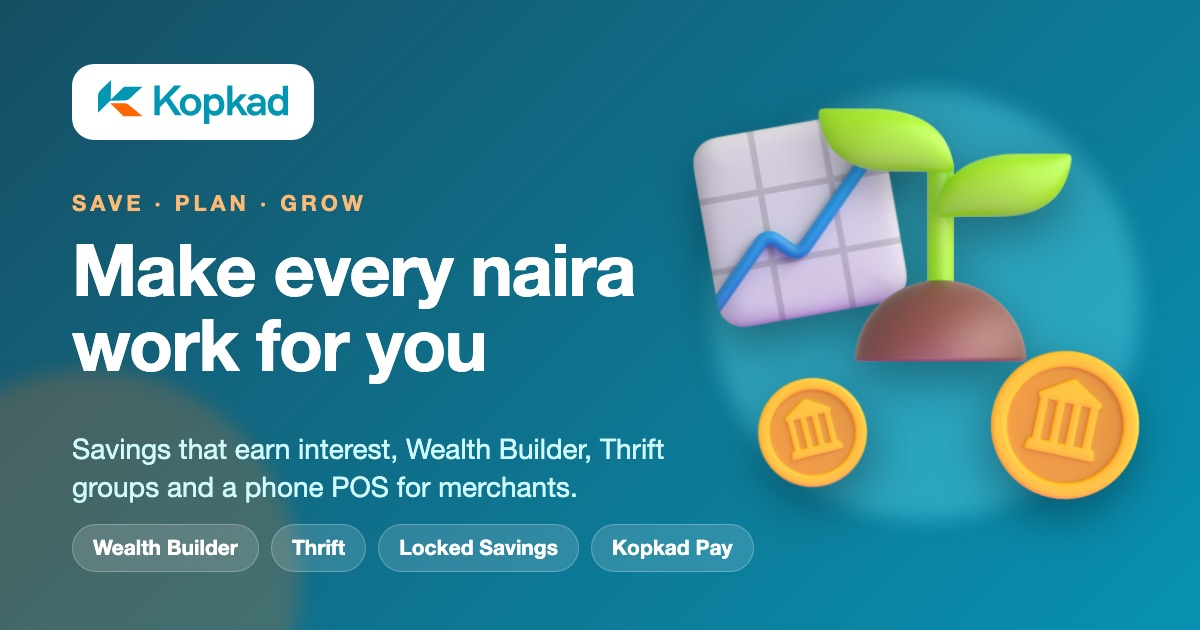
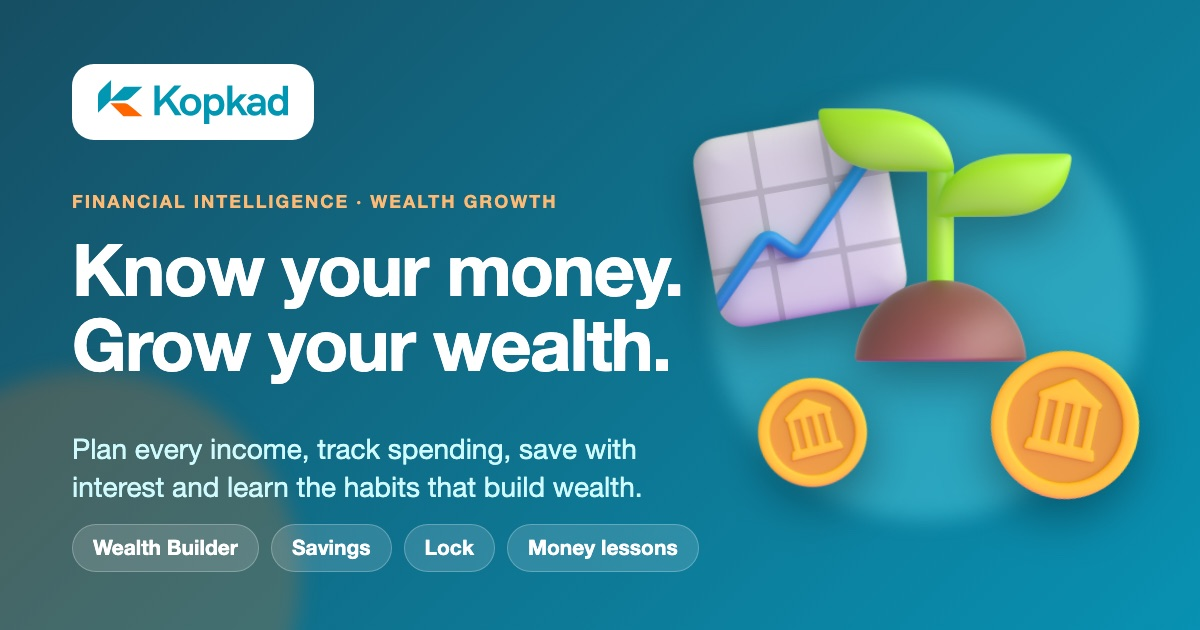
improve seo

Changed region(s): [[0.0617, 0.3921, 0.5858, 0.6032], [0.0617, 0.6937, 0.6475, 0.9349], [0.0617, 0.3016, 0.4625, 0.3317]]

diff --git a/src/landing/Landing.jsx b/src/landing/Landing.jsx
@@ -525,24 +525,30 @@ const FaqItem = ({ q, a }) => {
 const Landing = ({ onStartClick, onCoopClick, onMerchantClick }) => {
   /* ── DATA ─────────────────────────────────────────────────────────────────── */
 
+  // The wealth-building tools first, then the money-movement and business tools.
   const mainAppFeatures = [
-    { icon: ClipboardList, color: 'bg-cyan-700',   title: 'AJO Daily Card Marking',    desc: 'The core market savings workflow. Field agents register customers and mark their daily contributions in seconds, earning commission paid by Kopkad.' },
-    { icon: QrCode,           color: 'bg-orange-500', title: 'QR Physical Card System',    desc: 'Print QR savings cards for members. Scan with any smartphone to instantly open their account.' },
+    { icon: Sprout,        color: 'bg-cyan-700',   title: 'Wealth Builder',             desc: 'Split every income into Living, Savings and Give before you spend, keep to a daily budget, and climb from Seed to Harvest as your savings grow.' },
+    { icon: BookOpen,      color: 'bg-orange-500', title: 'Financial Awareness',        desc: 'Short money lessons, from paying yourself first to spotting Ponzi schemes, each paired with the tool that puts it into practice.' },
     { icon: TrendingUp,       color: 'bg-emerald-600', title: 'Interest on Your Savings',   desc: 'No commission to save. Your balance earns interest, accrued daily and credited monthly — up to 20% p.a. depending on how much and how long you save. Rate can change with notice; 10% withholding tax applies.' },
     { icon: Lock,             color: "bg-indigo-600", title: "Locked Savings",              desc: "Lock money for 3–12 months at a fixed rate of up to 20% p.a., set at creation. Add money any time (Flexible Lock) or lock a one-off sum (Fixed Lock)." },
-    { icon: Wallet,        color: 'bg-cyan-700',   title: 'Wallet & Account Number',    desc: 'Complete KYC to get your own permanent 10-digit account number. Top up from any bank app, withdraw to your bank any time.' },
-    { icon: Store,         color: 'bg-orange-500', title: 'Merchant POS',               desc: 'Turn your phone into a POS with Kopkad Pay: charge customers, send to any Kopkad user, or pay out to any bank.' },
-    { icon: MessageSquareText, color: 'bg-indigo-600', title: 'Pay Without Data',       desc: 'Pay a Kopkad merchant from your wallet by reading out a one-time SMS code. You don\'t need a smartphone, data or a card.' },
-    { icon: Sprout,        color: 'bg-cyan-700',   title: 'Wealth Builder',             desc: 'Split every income into Living, Savings and Give, track what you spend, and see your money statements and progress. Free money lessons show you how.' },
+    { icon: ListChecks,    color: 'bg-cyan-700',   title: 'Expense Tracking',           desc: 'Log income and spending in seconds, see needs vs wants, and get your own income statement, cash flow and balance sheet.' },
     { icon: Users,         color: 'bg-orange-500', title: 'Thrift (Ajo/Esusu) Groups',  desc: 'Join a field agent\'s thrift group with a link: fixed contributions, a rotating payout schedule, and every slot paid by card, transfer or wallet.' },
-    { icon: Zap,           color: 'bg-emerald-600',title: 'SMS & Email Notifications',  desc: 'Instant alerts when savings are marked, money lands in or leaves your wallet, or a payout is processed.' },
+    { icon: Wallet,        color: 'bg-emerald-600', title: 'Wallet & Account Number',    desc: 'Complete KYC to get your own permanent 10-digit account number. Top up from any bank app, withdraw to your bank any time.' },
+    { icon: Store,         color: 'bg-indigo-600', title: 'Merchant POS',               desc: 'Turn your phone into a POS with Kopkad Pay: charge customers, send to any Kopkad user, or pay out to any bank.' },
+    { icon: MessageSquareText, color: 'bg-cyan-700', title: 'Pay Without Data',         desc: 'Pay a Kopkad merchant from your wallet by reading out a one-time SMS code. You don\'t need a smartphone, data or a card.' },
+    { icon: ClipboardList, color: 'bg-orange-500', title: 'AJO Daily Card Marking',    desc: 'The core market savings workflow. Field agents register customers and mark their daily contributions in seconds, earning commission paid by Kopkad.' },
+    { icon: QrCode,           color: 'bg-emerald-600', title: 'QR Physical Card System',    desc: 'Print QR savings cards for members. Scan with any smartphone to instantly open their account.' },
+    { icon: Zap,           color: 'bg-indigo-600', title: 'SMS & Email Notifications',  desc: 'Instant alerts when savings are marked, money lands in or leaves your wallet, or a payout is processed.' },
   ];
 
+
+  // How Kopkad grows wealth: the three habits, each backed by tools in the app.
   const steps = [
-    { icon: Users2,      color: 'bg-cyan-700',   title: 'Sign Up & Verify',         desc: 'Create your account, choose your role, and verify your identity to unlock all features.' },
-    { icon: ClipboardList,  color: 'bg-orange-500', title: 'Set Up Your Operation',    desc: 'Start a savings plan, open a Locked Savings plan, or switch on your merchant POS and print your QR sticker.' },
-    { icon: CircleDollarSign, color: 'bg-cyan-700',   title: 'Grow, Track & Pay Out',    desc: 'Save and earn interest, take payments at your shop, and withdraw to any bank, with a full record of every transaction.' },
+    { icon: ListChecks,  color: 'bg-cyan-700',   title: 'Know Your Money',        desc: 'Track your income and spending and see your own money statements, so you know exactly where every naira goes.' },
+    { icon: PieChart,    color: 'bg-orange-500', title: 'Plan & Save First',      desc: 'Split every income with Wealth Builder, save before you spend, and lock money away for your goals, earning interest as you go.' },
+    { icon: Sprout,      color: 'bg-cyan-700',   title: 'Grow & Keep Learning',   desc: 'Watch your savings rate, emergency fund and net worth grow, and learn the money habits that keep it growing.' },
   ];
+
 
   const testimonials = [
     {
@@ -565,7 +571,7 @@ const Landing = ({ onStartClick, onCoopClick, onMerchantClick }) => {
   const faqs = [
     {
       q: 'What is Kopkad?',
-      a: 'Kopkad is a digital financial management platform for Nigeria with two separate products: the main app (app.kopkad.ng) for personal savers, merchants, and market savings collectors — and Cooperative by Kopkad (cooperative.kopkad.ng), a full SaaS platform for managing cooperative societies.',
+      a: 'Kopkad is a financial intelligence and wealth growth app for Nigerians. The main app (app.kopkad.ng) helps you understand your money and grow it, with Wealth Builder to plan every income, expense tracking and money statements, savings that earn interest, Locked Savings, Thrift groups and free money lessons. It also has Kopkad Pay for merchants and tools for field agents. Cooperative by Kopkad (cooperative.kopkad.ng) is a separate platform for running cooperative societies.',
     },
     {
       q: 'Does Kopkad charge a commission on savings?',
@@ -646,23 +652,24 @@ const Landing = ({ onStartClick, onCoopClick, onMerchantClick }) => {
         <div className="max-w-7xl mx-auto grid grid-cols-1 lg:grid-cols-2 gap-12 items-center relative z-10">
           <div>
             <span className="inline-block bg-orange-500/20 text-orange-300 text-xs font-semibold px-4 py-1.5 rounded-full mb-6 border border-orange-500/30">
-              Personal Savings · Merchant POS · Cooperative SaaS
+              Financial Intelligence · Wealth Growth
             </span>
             <h1 className="text-4xl sm:text-5xl lg:text-6xl font-extrabold text-white leading-tight mb-6">
-              Nigeria's complete{' '}
-              <span className="text-orange-400">financial platform</span>
+              Know your money.{' '}
+              <span className="text-orange-400">Grow your wealth.</span>
             </h1>
             <p className="text-lg text-cyan-100 mb-10 leading-relaxed max-w-xl">
-              The main app handles personal savings, Locked Savings, Wealth Builder for planning
-              every naira, Thrift groups, and Kopkad Pay, a POS on your phone for merchants. Cooperative by Kopkad is a full SaaS for running cooperative societies — with
-              member wallets, loans, and a branded member portal.
+              Kopkad is a financial intelligence app. It shows you where your money goes and gives
+              you the tools to grow it: Wealth Builder to plan every income, savings that earn
+              interest, Locked Savings for your goals, expense tracking, Thrift groups, and free
+              money lessons. Merchants and cooperatives run on Kopkad too.
             </p>
             <div className="flex flex-col sm:flex-row gap-4 mb-12">
               <button
                 onClick={onStartClick}
                 className="px-8 py-4 bg-cyan-600 hover:bg-cyan-500 text-white font-bold rounded-xl text-base transition-all shadow-lg flex items-center justify-center gap-2"
               >
-                Personal Finance App <ArrowRight size={18} />
+                Start Building Wealth <ArrowRight size={18} />
               </button>
               <button
                 onClick={onCoopClick}
@@ -766,15 +773,16 @@ const Landing = ({ onStartClick, onCoopClick, onMerchantClick }) => {
       <section id="features" className="py-20 px-4 bg-white scroll-mt-16">
         <div className="max-w-7xl mx-auto">
           <div className="text-center mb-14">
-            <span className="text-cyan-700 text-sm font-semibold uppercase tracking-widest">Personal Finance App</span>
+            <span className="text-cyan-700 text-sm font-semibold uppercase tracking-widest">Your Wealth Toolkit</span>
             <h2 className="text-3xl sm:text-4xl font-extrabold text-gray-900 mt-2">
-              For savers, merchants,{' '}
-              <br className="hidden sm:block" />and savings collectors
+              Every tool works toward one goal:{' '}
+              <br className="hidden sm:block" />growing your wealth
             </h2>
             <p className="text-gray-500 mt-4 max-w-2xl mx-auto">
-              The main app at{' '}
-              <span className="font-mono text-cyan-700 text-sm">app.kopkad.ng</span>{' '}
-              is built for everyday savers, the merchants they buy from, and the agents who collect savings in the market.
+              Track where your money goes, save before you spend, lock money for your goals, and learn
+              the habits that build wealth, all in the app at{' '}
+              <span className="font-mono text-cyan-700 text-sm">app.kopkad.ng</span>. Merchants and the
+              agents who collect savings in the market run their business on the same app.
             </p>
           </div>
 
@@ -1032,9 +1040,9 @@ const Landing = ({ onStartClick, onCoopClick, onMerchantClick }) => {
       <section id="how-it-works" className="py-20 px-4 bg-white">
         <div className="max-w-7xl mx-auto">
           <div className="text-center mb-14">
-            <span className="text-orange-500 text-sm font-semibold uppercase tracking-widest">Getting Started</span>
-            <h2 className="text-3xl sm:text-4xl font-extrabold text-gray-900 mt-2">Up and running in minutes</h2>
-            <p className="text-gray-500 mt-4 max-w-xl mx-auto">No training required. If you can use a smartphone, you can use Kopkad.</p>
+            <span className="text-orange-500 text-sm font-semibold uppercase tracking-widest">How It Works</span>
+            <h2 className="text-3xl sm:text-4xl font-extrabold text-gray-900 mt-2">Three habits that build wealth</h2>
+            <p className="text-gray-500 mt-4 max-w-xl mx-auto">Kopkad turns each habit into a simple tool. If you can use a smartphone, you can use Kopkad.</p>
           </div>
           <div className="grid grid-cols-1 md:grid-cols-3 gap-10">
             {steps.map(({ icon, color, title, desc }, i) => (
@@ -1047,7 +1055,7 @@ const Landing = ({ onStartClick, onCoopClick, onMerchantClick }) => {
           </div>
           <div className="text-center mt-12 flex flex-col sm:flex-row items-center justify-center gap-4">
             <button onClick={onStartClick} className="px-8 py-3.5 bg-cyan-800 hover:bg-cyan-900 text-white font-semibold rounded-xl transition-colors shadow-md">
-              Start with the Main App
+              Start Building Wealth
             </button>
             <button onClick={onCoopClick} className="px-8 py-3.5 bg-orange-500 hover:bg-orange-600 text-white font-semibold rounded-xl transition-colors shadow-md">
               Launch a Cooperative
@@ -1105,18 +1113,18 @@ const Landing = ({ onStartClick, onCoopClick, onMerchantClick }) => {
         <div className="absolute bottom-0 left-0 w-48 h-48 bg-white rounded-full opacity-5 -translate-x-1/2 translate-y-1/2 pointer-events-none" />
         <div className="max-w-3xl mx-auto text-center relative z-10">
           <h2 className="text-3xl sm:text-4xl font-extrabold text-white mb-4">
-            Ready to take control of your finances?
+            Ready to grow your wealth?
           </h2>
           <p className="text-cyan-200 mb-10 text-lg">
-            Whether you're saving personally, running a shop, or managing a cooperative
-            society — Kopkad has a platform built for you.
+            It starts with knowing your money. Kopkad gives you the tools and the know-how to grow it,
+            whether you're saving for yourself, running a shop, or managing a cooperative society.
           </p>
           <div className="flex flex-col sm:flex-row items-center justify-center gap-4">
             <button
               onClick={onStartClick}
               className="px-10 py-4 bg-cyan-600 hover:bg-cyan-500 text-white font-bold rounded-xl text-lg transition-all shadow-xl inline-flex items-center gap-2"
             >
-              Personal Finance App <ArrowRight size={20} />
+              Start Building Wealth <ArrowRight size={20} />
             </button>
             <button
               onClick={onCoopClick}
@@ -1125,7 +1133,7 @@ const Landing = ({ onStartClick, onCoopClick, onMerchantClick }) => {
               Run a Cooperative <ArrowRight size={20} />
             </button>
           </div>
-          <p className="text-cyan-300 text-sm mt-6">Personal finance app is always free · No hidden charges</p>
+          <p className="text-cyan-300 text-sm mt-6">The Kopkad app is free to use · No hidden charges</p>
           <p className="text-white text-sm font-semibold mt-2">No commission on your savings — ever. Your balance earns interest.</p>
         </div>
       </section>

diff --git a/src/test/Landing.test.jsx b/src/test/Landing.test.jsx
@@ -15,15 +15,16 @@ describe('Landing', () => {
 
   it('renders the hero headline and highlight stats', () => {
     render(<Landing onStartClick={onStartClick} onCoopClick={onCoopClick} />);
-    expect(screen.getByText(/Nigeria's complete/i)).toBeInTheDocument();
+    expect(screen.getByRole('heading', { level: 1 })).toHaveTextContent('Know your money. Grow your wealth.');
+    expect(screen.getByText('Financial Intelligence · Wealth Growth')).toBeInTheDocument();
     expect(screen.getByText('₦2.4T+')).toBeInTheDocument();
     expect(screen.getByText('40,000+')).toBeInTheDocument();
     expect(screen.getByText('80M+')).toBeInTheDocument();
   });
 
-  it('calls onStartClick when a "Personal Finance App" button is clicked', () => {
+  it('calls onStartClick when a "Start Building Wealth" button is clicked', () => {
     render(<Landing onStartClick={onStartClick} onCoopClick={onCoopClick} />);
-    const buttons = screen.getAllByRole('button', { name: /Personal Finance App/i });
+    const buttons = screen.getAllByRole('button', { name: /Start Building Wealth/i });
     expect(buttons.length).toBeGreaterThanOrEqual(2);
     fireEvent.click(buttons[0]);
     expect(onStartClick).toHaveBeenCalledTimes(1);
@@ -72,9 +73,15 @@ describe('Landing', () => {
       'Merchant POS',
       'Pay Without Data',
       'SMS & Email Notifications',
+      'Expense Tracking',
+      'Financial Awareness',
     ].forEach((title) => {
       expect(screen.getByRole('heading', { level: 3, name: title })).toBeInTheDocument();
     });
+    // Sold as a wealth-growth toolkit: the wealth tools lead the grid.
+    const grid = screen.getByRole('heading', { level: 3, name: 'AJO Daily Card Marking' }).closest('.grid');
+    expect(grid.querySelector('h3')).toHaveTextContent('Wealth Builder');
+    expect(screen.getByText('Your Wealth Toolkit')).toBeInTheDocument();
     // Wealth Builder (which replaced the old cash flow / budget / expense
     // tracker) and Thrift are advertised; the old tools by name and the
     // sub-agent network are not.
@@ -131,9 +138,9 @@ describe('Landing', () => {
 
   it('renders the "How It Works" steps in order', () => {
     render(<Landing onStartClick={onStartClick} onCoopClick={onCoopClick} />);
-    expect(screen.getByText('Sign Up & Verify')).toBeInTheDocument();
-    expect(screen.getByText('Set Up Your Operation')).toBeInTheDocument();
-    expect(screen.getByText('Grow, Track & Pay Out')).toBeInTheDocument();
+    expect(screen.getByText('Know Your Money')).toBeInTheDocument();
+    expect(screen.getByText('Plan & Save First')).toBeInTheDocument();
+    expect(screen.getByText('Grow & Keep Learning')).toBeInTheDocument();
     expect(screen.getByText('1')).toBeInTheDocument();
     expect(screen.getByText('2')).toBeInTheDocument();
     expect(screen.getByText('3')).toBeInTheDocument();
@@ -141,7 +148,7 @@ describe('Landing', () => {
 
   it('calls the correct handler for the "How It Works" CTA buttons', () => {
     render(<Landing onStartClick={onStartClick} onCoopClick={onCoopClick} />);
-    fireEvent.click(screen.getByRole('button', { name: /Start with the Main App/i }));
+    fireEvent.click(screen.getAllByRole('button', { name: /Start Building Wealth/i })[1]);
     expect(onStartClick).toHaveBeenCalledTimes(1);
 
     fireEvent.click(screen.getByRole('button', { name: /Launch a Cooperative/i }));
@@ -159,13 +166,13 @@ describe('Landing', () => {
   it('FAQ answers are hidden until their question is clicked, and toggle closed again', () => {
     render(<Landing onStartClick={onStartClick} onCoopClick={onCoopClick} />);
     const question = screen.getByText('What is Kopkad?');
-    expect(screen.queryByText(/two separate products/i)).not.toBeInTheDocument();
+    expect(screen.queryByText(/financial intelligence and wealth growth app/i)).not.toBeInTheDocument();
 
     fireEvent.click(question);
-    expect(screen.getByText(/two separate products/i)).toBeInTheDocument();
+    expect(screen.getByText(/financial intelligence and wealth growth app/i)).toBeInTheDocument();
 
     fireEvent.click(question);
-    expect(screen.queryByText(/two separate products/i)).not.toBeInTheDocument();
+    expect(screen.queryByText(/financial intelligence and wealth growth app/i)).not.toBeInTheDocument();
   });
 
   it('each FAQ item toggles independently', () => {
@@ -173,7 +180,7 @@ describe('Landing', () => {
     fireEvent.click(screen.getByText('What is Kopkad?'));
     fireEvent.click(screen.getByText("What is Locked Savings?"));
 
-    expect(screen.getByText(/two separate products/i)).toBeInTheDocument();
+    expect(screen.getByText(/financial intelligence and wealth growth app/i)).toBeInTheDocument();
     expect(screen.getByText(/lock a sum for 3 to 12 months/i)).toBeInTheDocument();
   });
 
@@ -188,9 +195,9 @@ describe('Landing', () => {
 
   it('renders the final CTA section and wires both buttons to their handlers', () => {
     render(<Landing onStartClick={onStartClick} onCoopClick={onCoopClick} />);
-    expect(screen.getByText('Ready to take control of your finances?')).toBeInTheDocument();
+    expect(screen.getByText('Ready to grow your wealth?')).toBeInTheDocument();
 
-    const startButtons = screen.getAllByRole('button', { name: /Personal Finance App/i });
+    const startButtons = screen.getAllByRole('button', { name: /Start Building Wealth/i });
     const coopButtons = screen.getAllByRole('button', { name: /Run a Cooperative/i });
 
     fireEvent.click(startButtons[startButtons.length - 1]);
@@ -202,7 +209,7 @@ describe('Landing', () => {
 
   it('renders without crashing and without invoking handlers when props are omitted', () => {
     expect(() => render(<Landing />)).not.toThrow();
-    const buttons = screen.getAllByRole('button', { name: /Personal Finance App/i });
+    const buttons = screen.getAllByRole('button', { name: /Start Building Wealth/i });
     expect(() => fireEvent.click(buttons[0])).not.toThrow();
   });
 });

diff --git a/index.html b/index.html
@@ -8,12 +8,12 @@
     <meta name="theme-color" content="#0e7490" />
     <!-- Replaced per page at build time by scripts/prerender.mjs (src/seo.js); these are the home page's. -->
     <!--head:start-->
-    <title>Kopkad — Save. Invest. Grow.</title>
-    <meta name="description" content="Savings that earn interest, Wealth Builder to plan every naira, Thrift groups, a phone POS for merchants, and cooperative management software across Nigeria." />
+    <title>Kopkad — Financial Intelligence for Wealth Growth</title>
+    <meta name="description" content="Know your money, grow your wealth. Plan every income with Wealth Builder, track spending, save with interest, lock money for your goals, and learn the habits that build wealth." />
     <meta property="og:type" content="website" />
     <meta property="og:site_name" content="Kopkad" />
-    <meta property="og:title" content="Kopkad — Save. Invest. Grow." />
-    <meta property="og:description" content="Savings that earn interest, Wealth Builder to plan every naira, Thrift groups, a phone POS for merchants, and cooperative management software across Nigeria." />
+    <meta property="og:title" content="Kopkad — Financial Intelligence for Wealth Growth" />
+    <meta property="og:description" content="Know your money, grow your wealth. Plan every income with Wealth Builder, track spending, save with interest, lock money for your goals, and learn the habits that build wealth." />
     <meta property="og:url" content="https://kopkad.ng/" />
     <meta property="og:image" content="https://kopkad.ng/og-image.jpg" />
     <meta name="twitter:card" content="summary_large_image" />

diff --git a/src/seo.js b/src/seo.js
@@ -12,8 +12,8 @@ const IMAGE = '/og-image.jpg';
 const BLOG_IMAGE = '/og-blog.jpg';
 
 const HOME = {
-  title: 'Kopkad — Save. Invest. Grow.',
-  description: 'Savings that earn interest, Wealth Builder to plan every naira, Thrift groups, a phone POS for merchants, and cooperative management software across Nigeria.',
+  title: 'Kopkad — Financial Intelligence for Wealth Growth',
+  description: 'Know your money, grow your wealth. Plan every income with Wealth Builder, track spending, save with interest, lock money for your goals, and learn the habits that build wealth.',
   image: IMAGE,
   type: 'website',
 };

diff --git a/src/landing/Footer.jsx b/src/landing/Footer.jsx
@@ -61,7 +61,7 @@ const Footer = () => {
               />
             </div>
             <p className="text-sm leading-relaxed max-w-xs">
-              Smart savings, merchant payments, and cooperative management for Nigeria — now earning interest on every naira saved.
+              Financial intelligence and wealth growth for Nigeria: plan every naira, save with interest, track your spending, and learn the habits that build wealth.
             </p>
             <div className="flex gap-3 mt-5">
               {socials.map(({ icon: Icon, href }, idx) => (

diff --git a/src/test/Footer.test.jsx b/src/test/Footer.test.jsx
@@ -28,7 +28,7 @@ describe('Footer', () => {
   it('renders the brand logo and description', () => {
     renderFooter();
     expect(screen.getByAltText('Kopkad')).toBeInTheDocument();
-    expect(screen.getByText(/Smart savings, merchant payments, and cooperative management/i)).toBeInTheDocument();
+    expect(screen.getByText(/Financial intelligence and wealth growth for Nigeria/i)).toBeInTheDocument();
   });
 
   it('renders exactly four social icon links pointing to "#"', () => {

diff --git a/src/test/seo.test.js b/src/test/seo.test.js
@@ -18,7 +18,7 @@ describe('per-page share and search tags (prerendered at build time)', () => {
   });
 
   it('falls back to the home page details for unknown paths', () => {
-    expect(pageMeta('/nope').title).toBe('Kopkad — Save. Invest. Grow.');
+    expect(pageMeta('/nope').title).toBe('Kopkad — Financial Intelligence for Wealth Growth');
     expect(pageMeta('/').imageUrl).toBe('https://kopkad.ng/og-image.jpg');
   });
 

diff --git a/FEATURES.md b/FEATURES.md
@@ -13,6 +13,14 @@ _Last updated: October 2026._
 
 ---
 
+## Positioning
+Kopkad is a **financial intelligence and wealth growth** app. Its tools serve that goal:
+- **Know your money:** expense tracking and money statements.
+- **Plan and save first:** Wealth Builder, savings with interest, Locked Savings and Thrift.
+- **Grow and keep learning:** insights, the money lessons, and the financial-independence number.
+
+Lead with this, not with "a savings app". Merchant (Kopkad Pay), field-agent and cooperative (CoopX) tools are the platform's other products.
+
 ## Products
 
 | Product | Address | For |
